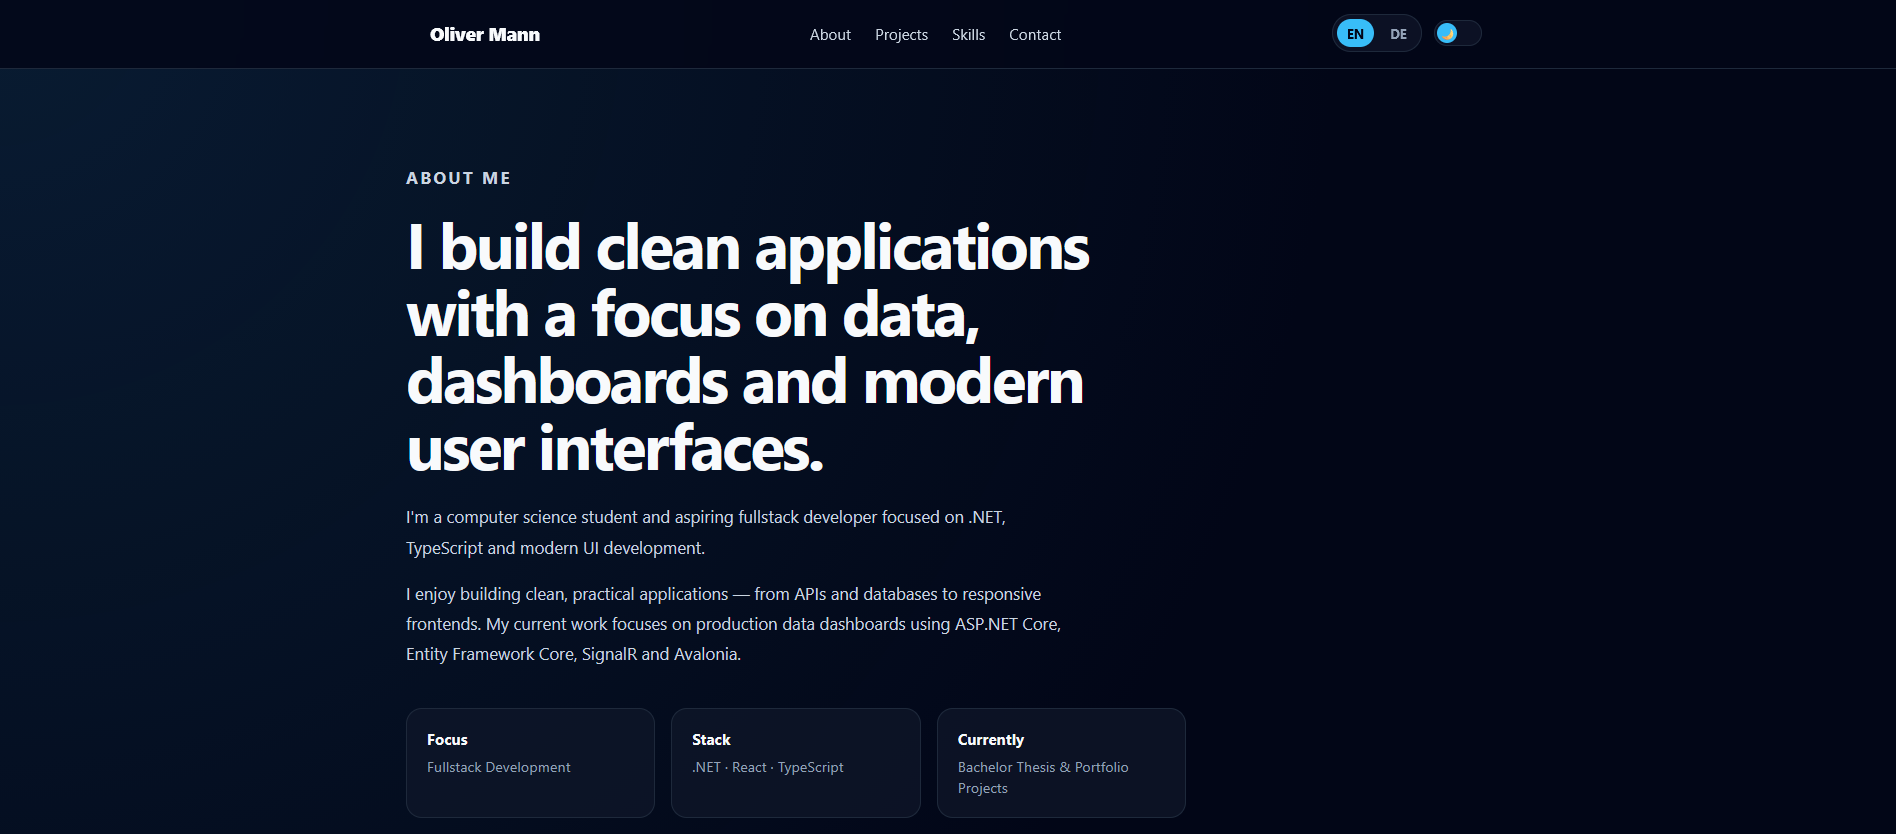
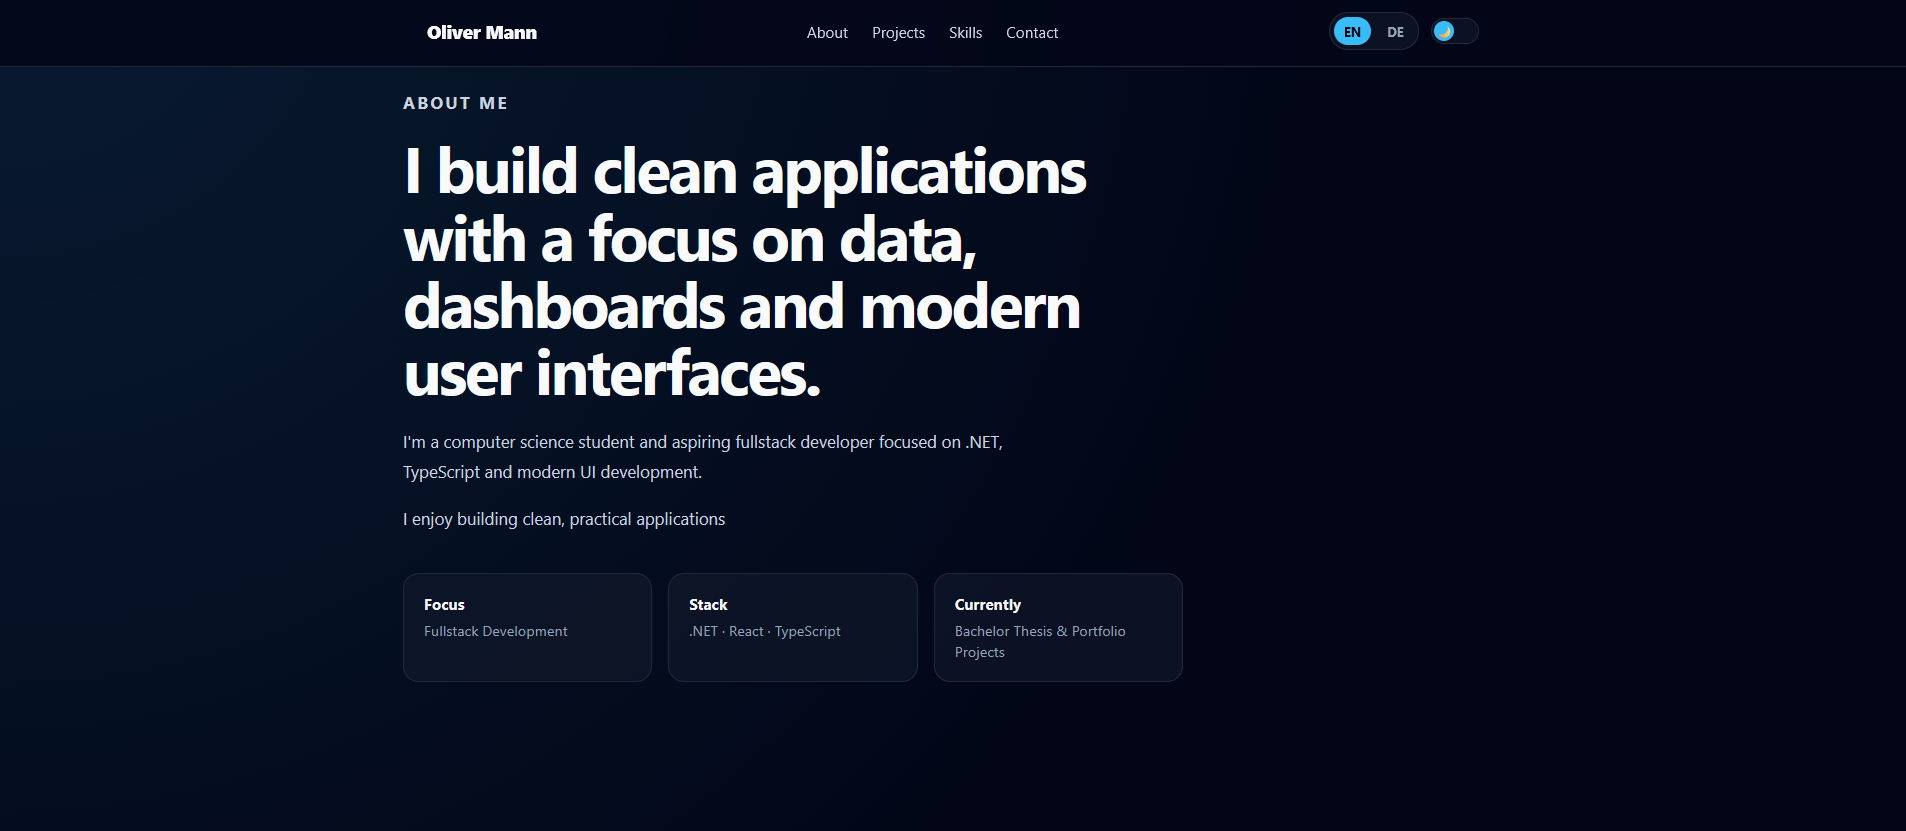
Update Screenshots in public folder

diff --git a/portfolio/src/translations.ts b/portfolio/src/translations.ts
@@ -15,7 +15,7 @@ export const translations = {
       paragraph1:
         "I'm a computer science student and aspiring fullstack developer focused on .NET, TypeScript and modern UI development.",
       paragraph2:
-        "I enjoy building clean, practical applications — from APIs and databases to responsive frontends. My current work focuses on production data dashboards using ASP.NET Core, Entity Framework Core, SignalR and Avalonia.",
+        "I enjoy building clean, practical applications",
       highlights: {
         focusTitle: "Focus",
         focusText: "Fullstack Development",
@@ -127,7 +127,7 @@ export const translations = {
       paragraph1:
         "Ich bin Informatikstudent und angehender Fullstack-Entwickler mit Fokus auf .NET, TypeScript und moderne UI-Entwicklung.",
       paragraph2:
-        "Ich entwickle gerne praktische Anwendungen — von APIs und Datenbanken bis hin zu responsiven Frontends. Aktuell beschäftige ich mich mit Produktionsdaten-Dashboards auf Basis von ASP.NET Core, Entity Framework Core, SignalR und Avalonia.",
+        "Ich entwickle gerne praktische Anwendungen",
       highlights: {
         focusTitle: "Fokus",
         focusText: "Fullstack-Entwicklung",
